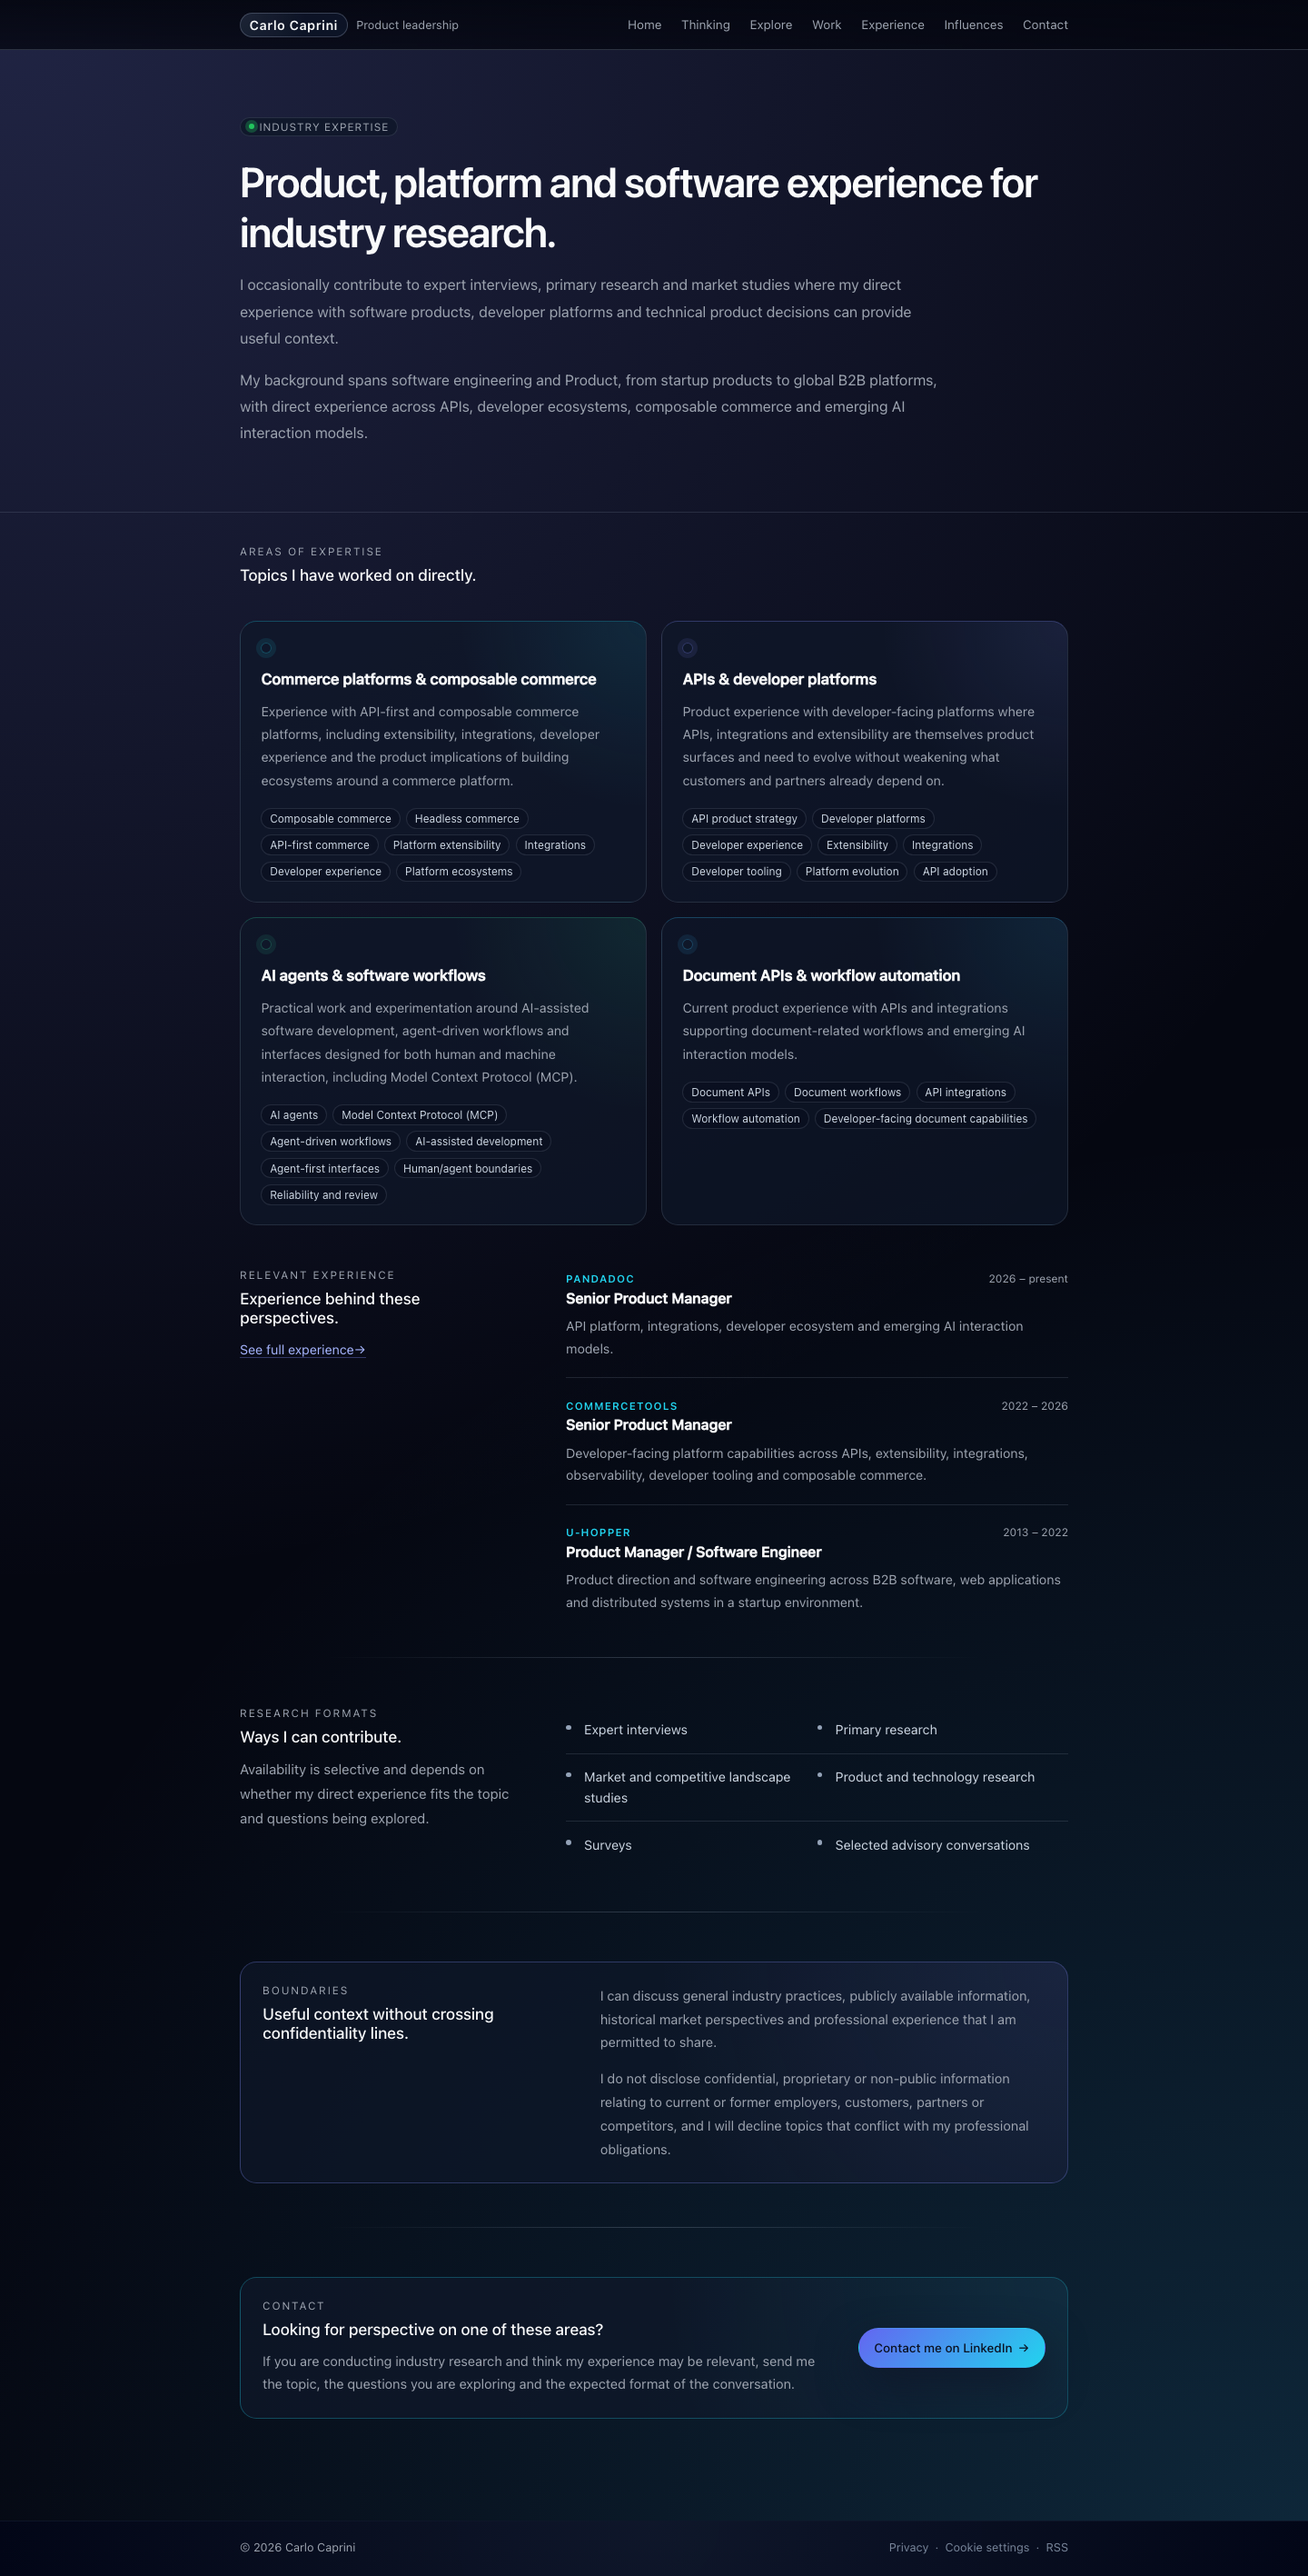
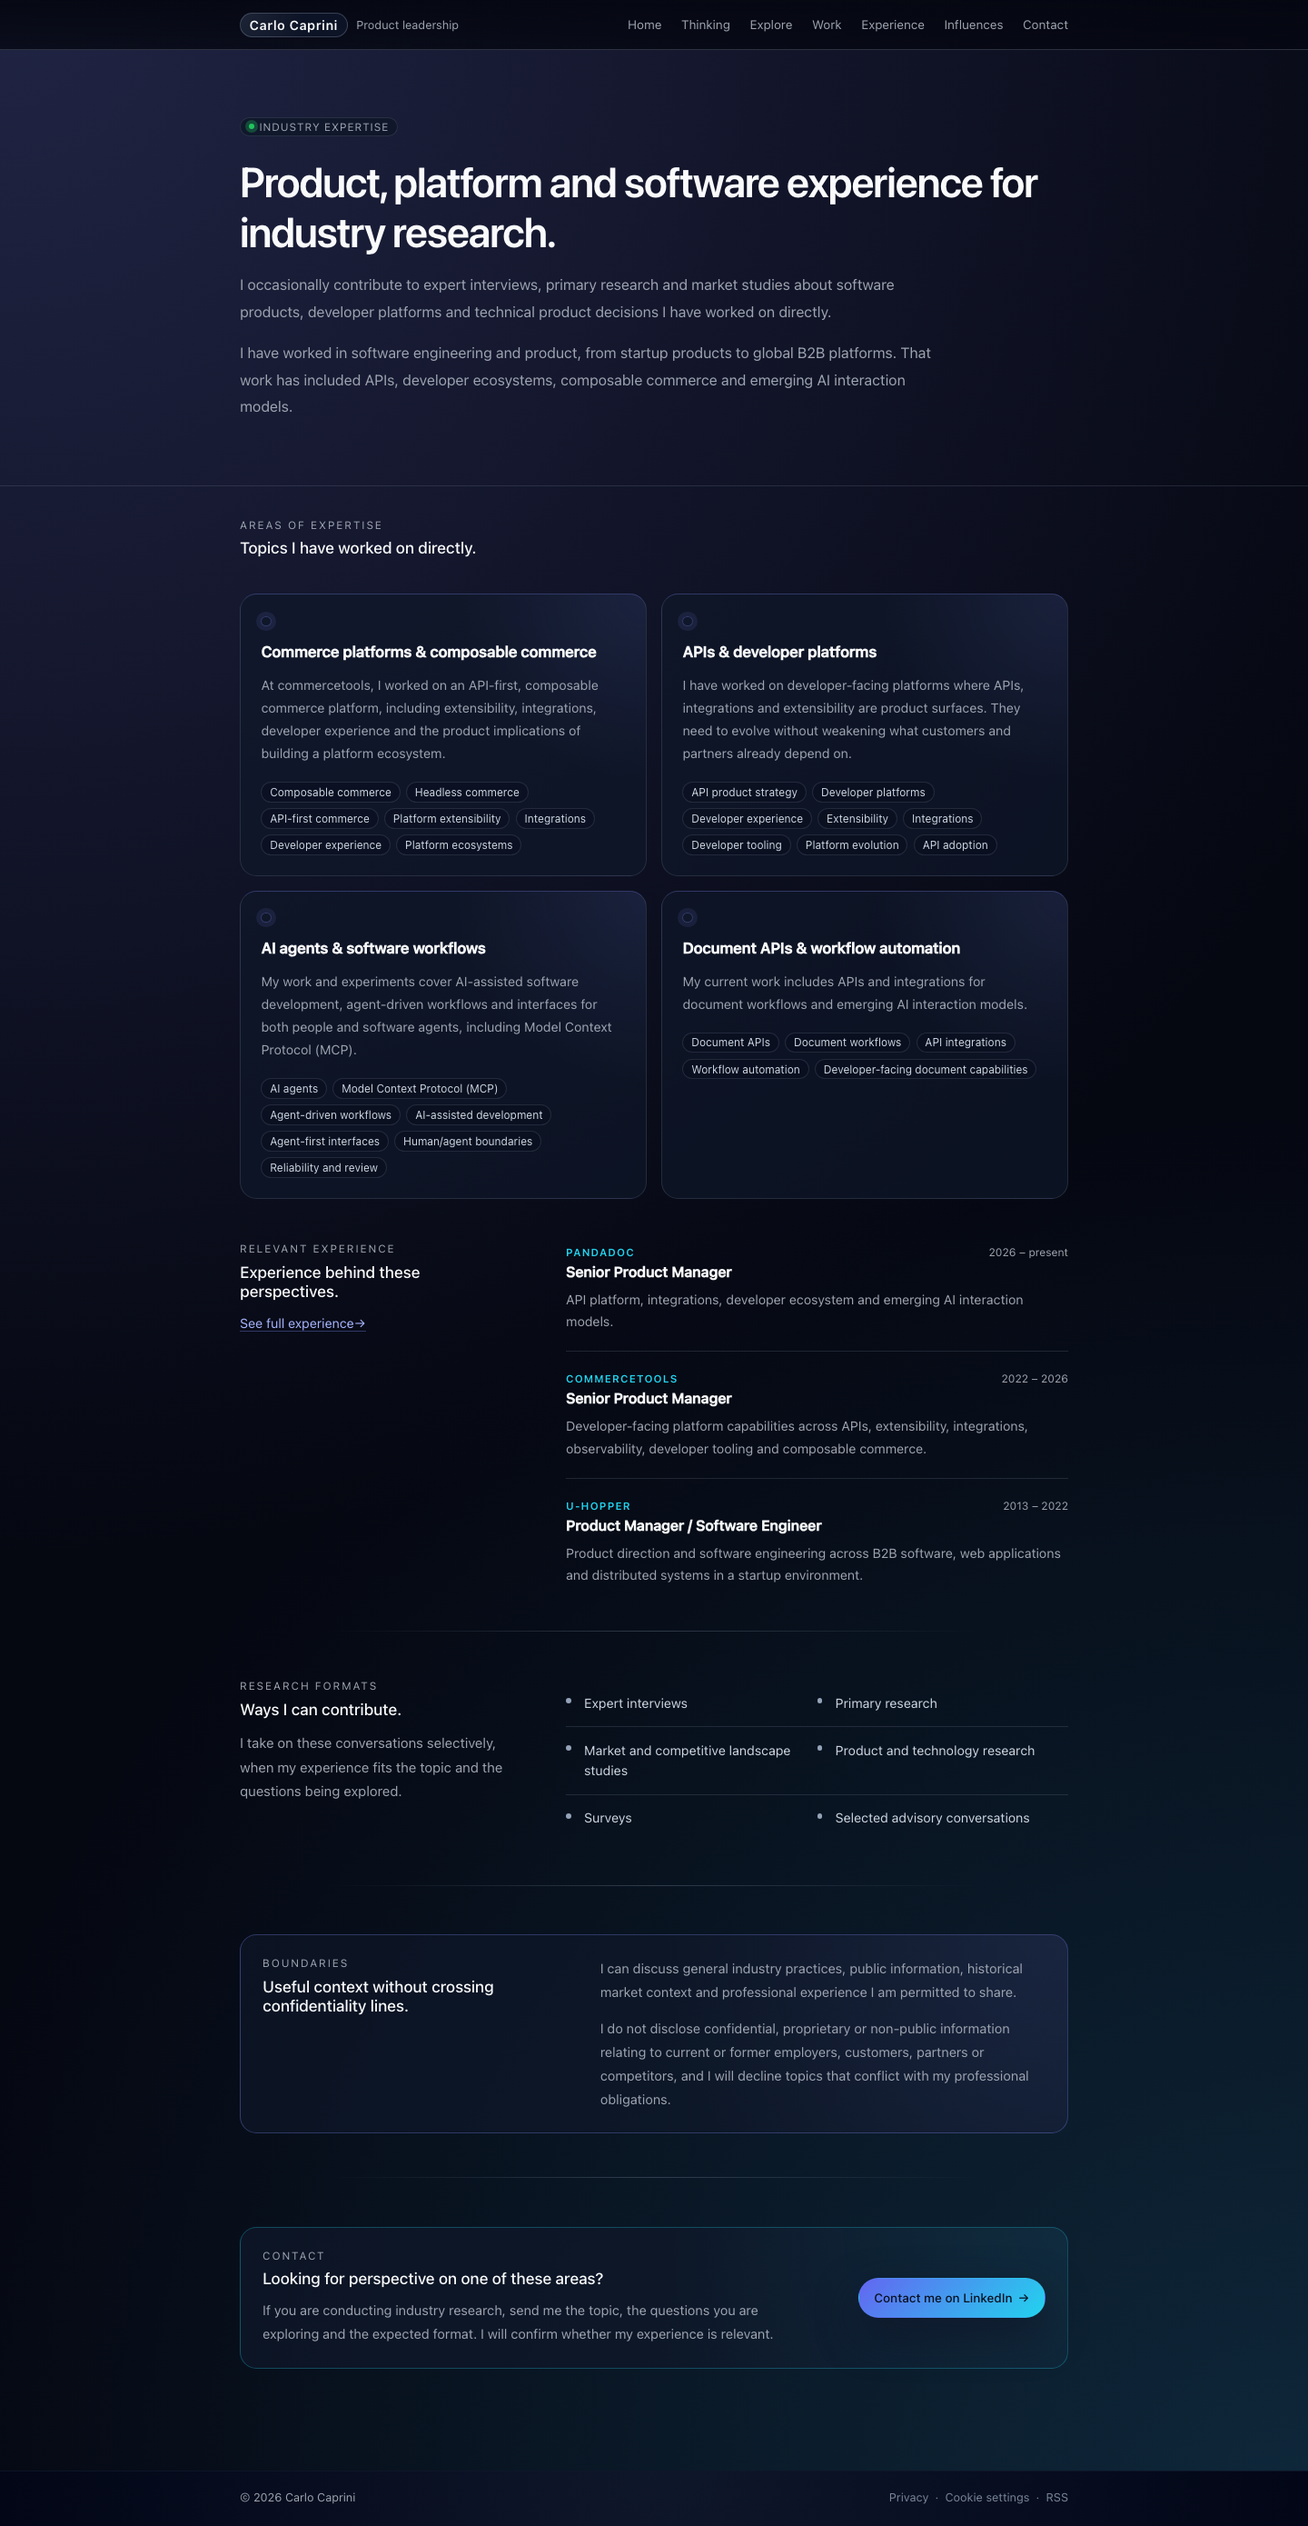
Refine industry expertise positioning

diff --git a/_includes/styles/industry-expertise.css b/_includes/styles/industry-expertise.css
@@ -18,35 +18,14 @@
 }
 
 .industry-expertise-area {
-  --expertise-accent: var(--accent-cyan);
-  --expertise-accent-soft: var(--accent-cyan-soft);
-  --expertise-accent-border: var(--accent-cyan-border);
   position: relative;
   padding: 1.45rem 1.4rem 1.35rem;
   border: 1px solid var(--color-line);
-  border-top-color: var(--expertise-accent-border);
+  border-top-color: var(--accent-indigo-border);
   border-radius: var(--radius-card-lg);
   background:
-    radial-gradient(circle at top right, var(--expertise-accent-soft), transparent 38%),
+    radial-gradient(circle at top right, var(--accent-indigo-soft), transparent 38%),
     rgba(15, 23, 42, 0.68);
-}
-
-.industry-expertise-area:nth-child(2) {
-  --expertise-accent: var(--accent-indigo);
-  --expertise-accent-soft: var(--accent-indigo-soft);
-  --expertise-accent-border: var(--accent-indigo-border);
-}
-
-.industry-expertise-area:nth-child(3) {
-  --expertise-accent: var(--accent-emerald);
-  --expertise-accent-soft: var(--accent-emerald-soft);
-  --expertise-accent-border: var(--accent-emerald-border);
-}
-
-.industry-expertise-area:nth-child(4) {
-  --expertise-accent: var(--accent-sky);
-  --expertise-accent-soft: var(--accent-sky-soft);
-  --expertise-accent-border: var(--accent-sky-border);
 }
 
 .industry-expertise-area-marker {
@@ -54,10 +33,10 @@
   width: 0.72rem;
   height: 0.72rem;
   margin-bottom: 1rem;
-  border: 1px solid var(--expertise-accent-border);
+  border: 1px solid var(--accent-indigo-border);
   border-radius: 999px;
   background: var(--color-surface-strong);
-  box-shadow: 0 0 0 5px var(--expertise-accent-soft);
+  box-shadow: 0 0 0 5px var(--accent-indigo-soft);
 }
 
 .industry-expertise-area h3 {
@@ -261,60 +240,4 @@
 
 .industry-expertise-contact-panel .button-primary {
   white-space: nowrap;
-}
-
-@media (max-width: 900px) {
-  .industry-expertise-area-grid,
-  .industry-expertise-split,
-  .industry-expertise-boundaries-panel,
-  .industry-expertise-contact-panel,
-  .work-industry-panel {
-    grid-template-columns: minmax(0, 1fr);
-  }
-
-  .industry-expertise-contact-panel .button-primary {
-    justify-self: start;
-  }
-}
-
-@media (max-width: 640px) {
-  .industry-expertise-section-intro {
-    margin-bottom: 1.7rem;
-  }
-
-  .industry-expertise-area-grid {
-    gap: 0.8rem;
-  }
-
-  .industry-expertise-area {
-    padding: 1.2rem 1.05rem;
-  }
-
-  .industry-expertise-split {
-    gap: 1.7rem;
-  }
-
-  .industry-expertise-experience-heading {
-    display: block;
-  }
-
-  .industry-expertise-experience-heading > span {
-    display: block;
-    margin-top: 0.35rem;
-  }
-
-  .industry-expertise-format-list {
-    grid-template-columns: minmax(0, 1fr);
-  }
-
-  .industry-expertise-format-list li:nth-last-child(2) {
-    border-bottom: 1px solid var(--color-line);
-  }
-
-  .industry-expertise-boundaries-panel,
-  .industry-expertise-contact-panel,
-  .work-industry-panel {
-    gap: 1.35rem;
-    padding: 1.2rem 1.05rem;
-  }
 }

diff --git a/_includes/styles/responsive.css b/_includes/styles/responsive.css
@@ -162,7 +162,12 @@
 
   .work-section-intro,
   .work-engagement-details,
-  .work-contact-panel {
+  .work-contact-panel,
+  .work-industry-panel,
+  .industry-expertise-area-grid,
+  .industry-expertise-split,
+  .industry-expertise-boundaries-panel,
+  .industry-expertise-contact-panel {
     grid-template-columns: minmax(0, 1fr);
   }
 
@@ -248,6 +253,10 @@
   }
 
   .work-contact-panel .button-primary {
+    justify-self: start;
+  }
+
+  .industry-expertise-contact-panel .button-primary {
     justify-self: start;
   }
 
@@ -779,6 +788,46 @@
     width: 100%;
     justify-content: center;
     white-space: normal;
+  }
+
+  .industry-expertise-section-intro {
+    margin-bottom: 1.7rem;
+  }
+
+  .industry-expertise-area-grid {
+    gap: 0.8rem;
+  }
+
+  .industry-expertise-area {
+    padding: 1.2rem 1.05rem;
+  }
+
+  .industry-expertise-split {
+    gap: 1.7rem;
+  }
+
+  .industry-expertise-experience-heading {
+    display: block;
+  }
+
+  .industry-expertise-experience-heading > span {
+    display: block;
+    margin-top: 0.35rem;
+  }
+
+  .industry-expertise-format-list {
+    grid-template-columns: minmax(0, 1fr);
+  }
+
+  .industry-expertise-format-list li:nth-last-child(2) {
+    border-bottom: 1px solid var(--color-line);
+  }
+
+  .industry-expertise-boundaries-panel,
+  .industry-expertise-contact-panel,
+  .work-industry-panel {
+    gap: 1.35rem;
+    padding: 1.2rem 1.05rem;
   }
 
   .series-visuals-grid {

diff --git a/tests/browser/editorial-journeys.spec.js b/tests/browser/editorial-journeys.spec.js
@@ -190,6 +190,7 @@ test("Work explains recognizable problems and exactly two engagement models", as
   await expect(page.getByRole("link", { name: /See full experience/ })).toHaveAttribute("href", "/experience/");
   await expect(page.getByRole("heading", { name: "Industry expertise for research and expert conversations." })).toBeVisible();
   await expect(page.locator(".work-industry-areas > li")).toHaveCount(4);
+  await expect(page.locator(".work-industry-note")).toHaveCount(0);
   await expect(page.getByRole("link", { name: /Explore industry expertise/ })).toHaveAttribute("href", "/industry-expertise/");
   const workSectionOrder = await page.locator(".work-evidence-section, .work-industry-section, .work-next-section")
     .evaluateAll((sections) => sections.map((section) => section.className));

diff --git a/_layouts/work.html b/_layouts/work.html
@@ -171,7 +171,6 @@ layout: default
           <ul class="work-compact-list work-industry-areas">
             {% for area in page.industry_research.areas %}<li>{{ area }}</li>{% endfor %}
           </ul>
-          <p class="work-industry-note">{{ page.industry_research.note }}</p>
           <a class="section-link" href="{{ page.industry_research.action.url | relative_url }}" data-analytics-event="industry_expertise_open" data-analytics-link-context="work_industry_expertise" data-analytics-destination="{{ page.industry_research.action.url }}">{{ page.industry_research.action.label }} <span aria-hidden="true">→</span></a>
         </div>
       </div>

diff --git a/_includes/styles/work.css b/_includes/styles/work.css
@@ -278,8 +278,7 @@
   font-size: clamp(1.4rem, 2.3vw, 1.75rem);
 }
 
-.work-industry-body,
-.work-industry-note {
+.work-industry-body {
   margin: 1rem 0 0;
   color: var(--color-text-muted);
   font-size: 0.92rem;
@@ -287,11 +286,7 @@
 }
 
 .work-industry-areas {
-  margin-bottom: 1rem;
-}
-
-.work-industry-note {
-  margin: 0;
+  margin-bottom: 0;
 }
 
 .work-industry-panel .section-link {

diff --git a/pages/industry-expertise.md b/pages/industry-expertise.md
@@ -18,14 +18,14 @@ hero:
   label: Industry expertise
   title: Product, platform and software experience for industry research.
   paragraphs:
-    - I occasionally contribute to expert interviews, primary research and market studies where my direct experience with software products, developer platforms and technical product decisions can provide useful context.
-    - My background spans software engineering and Product, from startup products to global B2B platforms, with direct experience across APIs, developer ecosystems, composable commerce and emerging AI interaction models.
+    - I occasionally contribute to expert interviews, primary research and market studies about software products, developer platforms and technical product decisions I have worked on directly.
+    - I have worked in software engineering and product, from startup products to global B2B platforms. That work has included APIs, developer ecosystems, composable commerce and emerging AI interaction models.
 areas:
   eyebrow: Areas of expertise
   title: Topics I have worked on directly.
   items:
     - title: Commerce platforms & composable commerce
-      body: Experience with API-first and composable commerce platforms, including extensibility, integrations, developer experience and the product implications of building ecosystems around a commerce platform.
+      body: At commercetools, I worked on an API-first, composable commerce platform, including extensibility, integrations, developer experience and the product implications of building a platform ecosystem.
       topics:
         - Composable commerce
         - Headless commerce
@@ -35,7 +35,7 @@ areas:
         - Developer experience
         - Platform ecosystems
     - title: APIs & developer platforms
-      body: Product experience with developer-facing platforms where APIs, integrations and extensibility are themselves product surfaces and need to evolve without weakening what customers and partners already depend on.
+      body: I have worked on developer-facing platforms where APIs, integrations and extensibility are product surfaces. They need to evolve without weakening what customers and partners already depend on.
       topics:
         - API product strategy
         - Developer platforms
@@ -46,7 +46,7 @@ areas:
         - Platform evolution
         - API adoption
     - title: AI agents & software workflows
-      body: Practical work and experimentation around AI-assisted software development, agent-driven workflows and interfaces designed for both human and machine interaction, including Model Context Protocol (MCP).
+      body: My work and experiments cover AI-assisted software development, agent-driven workflows and interfaces for both people and software agents, including Model Context Protocol (MCP).
       topics:
         - AI agents
         - Model Context Protocol (MCP)
@@ -56,7 +56,7 @@ areas:
         - Human/agent boundaries
         - Reliability and review
     - title: Document APIs & workflow automation
-      body: Current product experience with APIs and integrations supporting document-related workflows and emerging AI interaction models.
+      body: My current work includes APIs and integrations for document workflows and emerging AI interaction models.
       topics:
         - Document APIs
         - Document workflows
@@ -85,7 +85,7 @@ experience:
 formats:
   eyebrow: Research formats
   title: Ways I can contribute.
-  intro: Availability is selective and depends on whether my direct experience fits the topic and questions being explored.
+  intro: I take on these conversations selectively, when my experience fits the topic and the questions being explored.
   items:
     - Expert interviews
     - Primary research
@@ -97,11 +97,11 @@ boundaries:
   eyebrow: Boundaries
   title: Useful context without crossing confidentiality lines.
   paragraphs:
-    - I can discuss general industry practices, publicly available information, historical market perspectives and professional experience that I am permitted to share.
+    - I can discuss general industry practices, public information, historical market context and professional experience I am permitted to share.
     - I do not disclose confidential, proprietary or non-public information relating to current or former employers, customers, partners or competitors, and I will decline topics that conflict with my professional obligations.
 contact:
   eyebrow: Contact
   title: Looking for perspective on one of these areas?
-  body: If you are conducting industry research and think my experience may be relevant, send me the topic, the questions you are exploring and the expected format of the conversation.
+  body: If you are conducting industry research, send me the topic, the questions you are exploring and the expected format. I will confirm whether my experience is relevant.
   action: Contact me on LinkedIn
 ---

diff --git a/pages/work.md b/pages/work.md
@@ -97,13 +97,12 @@ experience:
 industry_research:
   eyebrow: Industry research
   title: Industry expertise for research and expert conversations.
-  body: I also participate in selected industry research, expert interviews and market studies where my direct experience with software products, platforms and developer-facing systems is relevant.
+  body: I also participate in selected industry research, expert interviews and market studies related to software products, platforms and developer-facing systems I have worked on.
   areas:
     - Commerce platforms and composable commerce
     - APIs and developer platforms
     - AI agents and emerging software workflows
     - Document APIs and workflow automation
-  note: These are focused research conversations rather than a separate consulting package. The scope depends on the topic and on whether my direct experience is relevant to the questions being explored.
   action:
     label: Explore industry expertise
     url: /industry-expertise/

diff --git a/pages/experience.md b/pages/experience.md
@@ -68,7 +68,7 @@ independent_work:
   action:
     label: How I can help
     url: /work/
-  research_body: I also contribute to selected industry research and expert conversations when my direct experience is relevant.
+  research_body: I also contribute to selected industry research and expert conversations related to products and platforms I have worked on.
   research_action:
     label: Explore industry expertise
     url: /industry-expertise/
